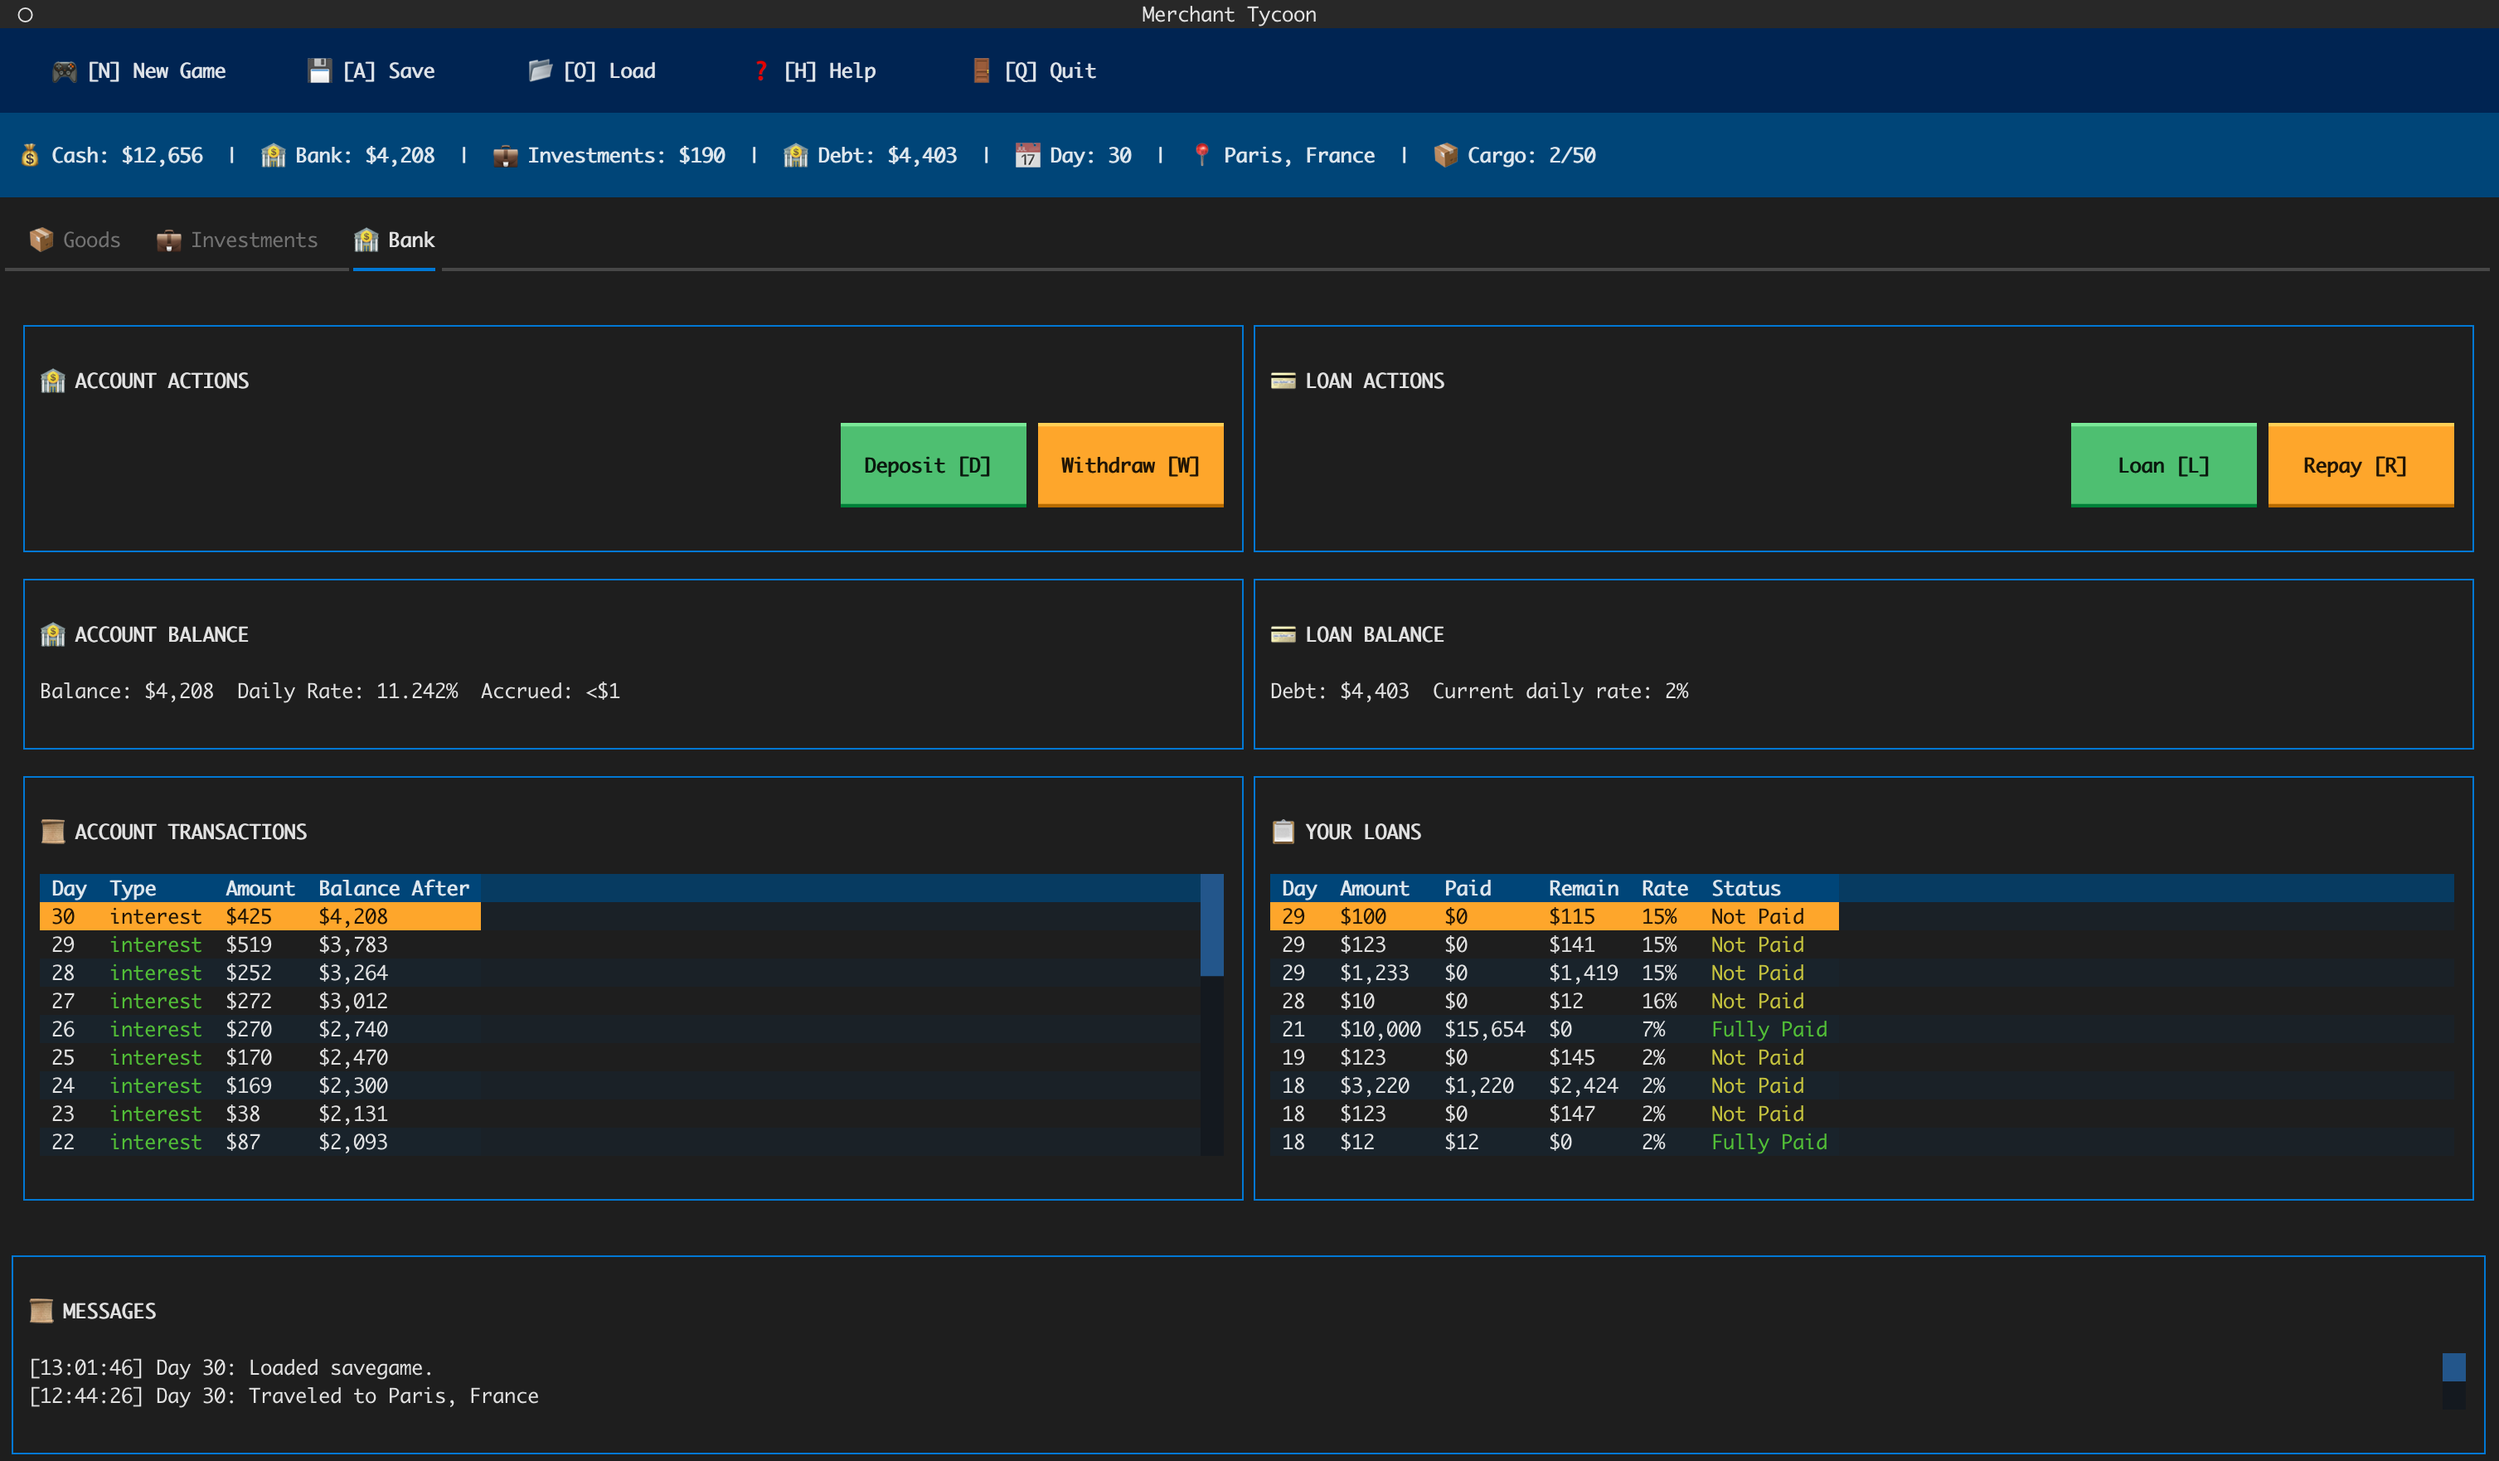
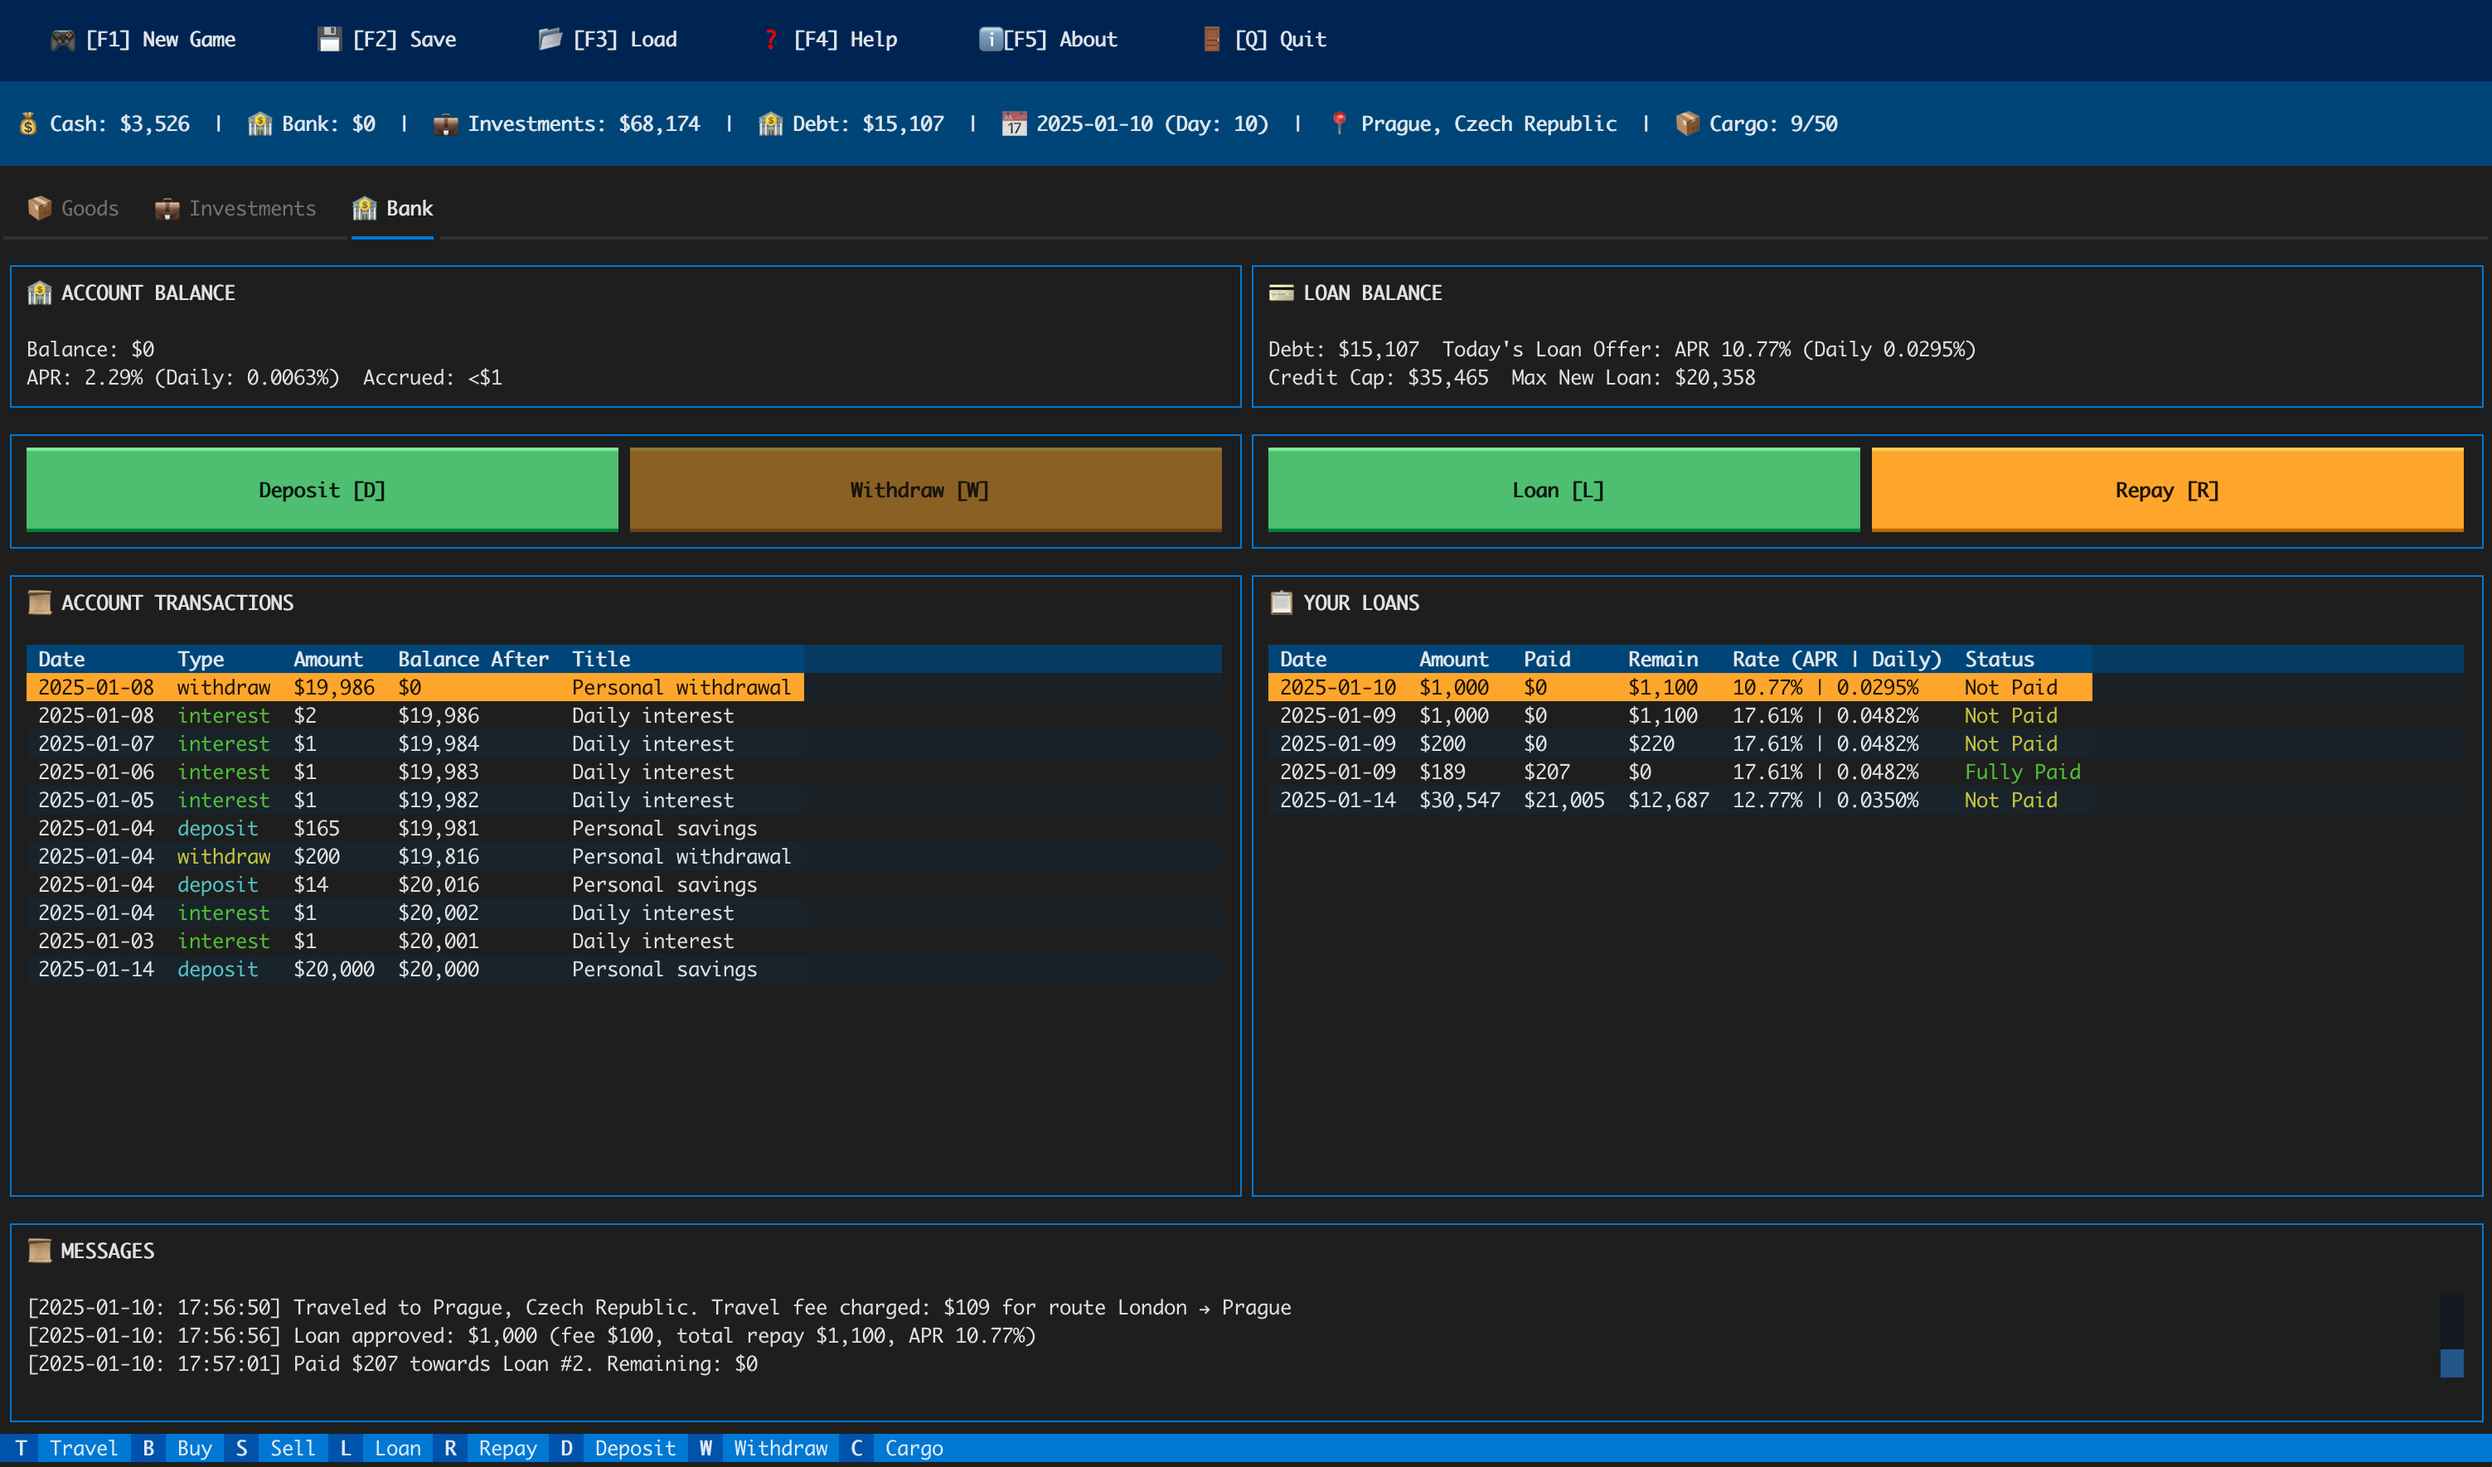
Key bindings updated

Changed region(s): [[0.0, 0.0, 1.0, 0.9989], [0.495, 0.874, 0.5259, 0.9052], [0.4331, 0.874, 0.4641, 0.9052]]

diff --git a/src/merchant_tycoon/app.py b/src/merchant_tycoon/app.py
@@ -70,11 +70,13 @@ class MerchantTycoon(App):
     BINDINGS = [
         # Global actions (hidden from footer, shown in top bar)
         Binding("q", "quit", "Quit", show=False),
-        Binding("h", "help", "Help", show=False),
-        Binding("a", "save", "Save", show=False),
-        Binding("o", "load", "Load", show=False),
-        Binding("n", "new_game", "New Game", show=False),
-        Binding("f2", "about", "About", show=False),
+        Binding("escape", "quit", "Quit", show=False),
+        Binding("f4", "help", "Help", show=False),
+        Binding("f2", "save", "Save", show=False),
+        Binding("f3", "load", "Load", show=False),
+        Binding("f1", "new_game", "New Game", show=False),
+        Binding("f5", "about", "About", show=False),
+        Binding("f9", "splash", "Splash", show=False),
         # Context-sensitive actions (always visible, behavior depends on active tab)
         Binding("t", "travel", "Travel", show=True),
         Binding("b", "buy", "Buy", show=True),
@@ -544,6 +546,17 @@ class MerchantTycoon(App):
     def action_about(self):
         """Show About modal with app info"""
         self.push_screen(AboutModal())
+
+    def action_splash(self):
+        """Show Splash modal on demand (F9)."""
+        try:
+            self.push_screen(SplashModal())
+        except Exception as e:
+            try:
+                self.engine.messenger.error(f"Failed to open splash: {e}", tag="system")
+                self.refresh_all()
+            except Exception:
+                pass
 
     def action_save(self):
         """Save current game to disk (single slot)."""

diff --git a/src/merchant_tycoon/ui/general/panels/global_actions_bar.py b/src/merchant_tycoon/ui/general/panels/global_actions_bar.py
@@ -8,11 +8,11 @@ class GlobalActionsBar(Static):
 
     def compose(self) -> ComposeResult:
         with Horizontal(id="global-actions-bar"):
-            yield Button("🎮 [N] New Game", id="action-new", classes="action-item")
-            yield Button("💾 [A] Save", id="action-save", classes="action-item")
-            yield Button("📂 [O] Load", id="action-load", classes="action-item")
-            yield Button("❓ [H] Help", id="action-help", classes="action-item")
-            yield Button("ℹ [F2] About", id="action-about", classes="action-item")
+            yield Button("🎮 [F1] New Game", id="action-new", classes="action-item")
+            yield Button("💾 [F2] Save", id="action-save", classes="action-item")
+            yield Button("📂 [F3] Load", id="action-load", classes="action-item")
+            yield Button("❓ [F4] Help", id="action-help", classes="action-item")
+            yield Button("ℹ [F5] About", id="action-about", classes="action-item")
             yield Button("🚪 [Q] Quit", id="action-quit", classes="action-item")
 
     def on_button_pressed(self, event: Button.Pressed) -> None:
@@ -34,4 +34,3 @@ class GlobalActionsBar(Static):
                 app.action_quit()
             except Exception:
                 app.exit()
-

diff --git a/src/merchant_tycoon/ui/general/modals/splash_modal.py b/src/merchant_tycoon/ui/general/modals/splash_modal.py
@@ -99,7 +99,7 @@ class SplashModal(ModalScreen):
                 yield Label("(C) Dariusz Przada", id="splash-author")
 
             # Bottom instruction
-            yield Label("Press Enter or Space to continue", id="splash-instruction")
+            yield Label("Press [Enter] or [Space] to continue", id="splash-instruction")
 
     def on_mount(self) -> None:
         # Auto-dismiss after 10 seconds

diff --git a/README.md b/README.md
@@ -8,6 +8,10 @@ A terminal-based trading game where you buy low, sell high, travel between citie
 
 ## 📸 Screenshots
 
+### 🚀 Splash Screen
+![Merchant Tycoon - Splash Screen](docs/images/splash.png)
+*Startup screen with animated ASCII logo and version info*
+
 ### 📦 Goods Trading
 ![Merchant Tycoon - Goods Trading Screen](docs/images/goods.png)
 *Main trading interface with market prices, inventory management, and real-time price trends*
@@ -45,7 +49,7 @@ The game combines:
 5. Save excess cash in the bank to earn interest
 6. Build a diversified portfolio while continuing to trade
 
-## 🚀 How To Play
+## 🚀 How to install and run
 
 ### Installation
 
@@ -128,12 +132,14 @@ The game has **3 tabs** (Goods, Investments, Bank) with context-sensitive contro
 #### Global Controls (Always Available)
 | Key | Action | Description |
 |-----|--------|-------------|
-| **N** | New Game | Start a new game (deletes current save) |
-| **A** | Save | Save current game progress |
-| **O** | Load | Load saved game |
-| **H** | Help | Show in-game instructions |
-| **Q** | Quit | Exit the game |
-| **C** | Cargo | Extend cargo capacity by +1 slot (cost doubles per slot) |
+| **F1** | New Game | Start a new game (deletes current save) |
+| **F2** | Save | Save current game progress |
+| **F3** | Load | Load saved game |
+| **F4** | Help | Show in-game instructions |
+| **F5** | About | Show About modal |
+| **Q / ESC** | Quit | Exit the game |
+| **F9** | Splash | Show splash screen |
+| **C** | Cargo | Extend cargo capacity by +1 slot (pricing per config) |
 
 #### 📦 Goods Tab Controls
 | Key | Action | Description |
@@ -141,7 +147,6 @@ The game has **3 tabs** (Goods, Investments, Bank) with context-sensitive contro
 | **T** | Travel | Move to another city to find better prices |
 | **B** | Buy | Purchase goods at current city prices |
 | **S** | Sell | Sell goods from your inventory |
-| **I** | Transactions | View detailed purchase history with profit/loss |
 | **L** | Loan | Borrow money (up to $10,000 per loan) |
 | **R** | Repay | Pay back your loans |
 
@@ -150,7 +155,6 @@ The game has **3 tabs** (Goods, Investments, Bank) with context-sensitive contro
 |-----|--------|-------------|
 | **B** | Buy | Purchase stocks, commodities, or crypto |
 | **S** | Sell | Sell assets from your portfolio |
-| **I** | Transactions | View detailed investment history with profit/loss |
 
 #### 🏦 Bank Tab Controls
 | Key | Action | Description |
@@ -273,10 +277,8 @@ The game uses a **tabbed interface** with three main tabs:
 ## 🛠 Technical Details
 
 ### Built With
-- **Python 3.8+**
+- **Python 3.14**
 - **Textual Framework**: Modern TUI (Text User Interface) framework
-- **Architecture**: Event-driven with modal screens
-- **Data Structures**: FIFO queues for inventory tracking
 
 ### Features
 - **Tabbed Interface**: 3 main tabs (Goods, Investments, Bank) with context-sensitive controls
@@ -293,9 +295,18 @@ The game uses a **tabbed interface** with three main tabs:
 - **Auto-save/Load**: Persistent game state across sessions
 - **Responsive Terminal UI**: Colorful, styled interface using Textual framework
 
-## 🤖 Created Entirely with Claude Code
+## 🤖 Created Entirely with AI Agents on board
 
-This game was **100% created using Claude Code** - Anthropic's AI-powered coding assistant. Every line of code, every feature, and every design decision was made through conversation with Claude Code.
+This game was **100% (ok ok 99%:>) created using AI Agents**.
+Almost every line of code, every feature, and every design decision was made through conversation with AI
+(Claude Code, Codex and Junie). 
+
+### No Manual Coding
+
+- Almost **Zero lines** written by hand in a traditional code editor
+- All logic, UI, styling, and documentation generated through AI conversation
+- Demonstrates the power of conversational programming
+- Shows how complex applications can be built through natural language
 
 ### Development Process
 
@@ -326,13 +337,6 @@ The entire development was done through natural language conversations. The deve
    - Added proper column formatting and scrolling
    - Improved modal layouts and styling
 
-### No Manual Coding
-
-- **Zero lines** written by hand in a traditional code editor
-- All logic, UI, styling, and documentation generated through AI conversation
-- Demonstrates the power of conversational programming
-- Shows how complex applications can be built through natural language
-
 ### What This Demonstrates
 
 This project showcases:
@@ -349,8 +353,9 @@ MIT License - feel free to use, modify, and distribute.
 
 - Built with [Textual](https://github.com/Textualize/textual) by Textualize
 - Inspired by classic trading games like Dope Wars and Drug Wars
-- **Entirely created using [Claude Code](https://www.anthropic.com/) by Anthropic**
+- PoC **Entirely created using [Claude Code](https://www.anthropic.com/) by Anthropic**
 - Special thanks to JuniePro for stepping in to support development whenever Claude Code's rate limit hits
+- When Junie left the team (She wanted more money that we coudnt afford) Codex from OpenAI stepped in. 
 
 ## 🎮 Start Playing!
 
@@ -363,3 +368,12 @@ Good luck, and may your trades be profitable! 🚀💰
 ---
 
 *"In code we trust, in Claude we build."* - A demonstration of AI-powered software development
+
+## 🛠 Development Tools
+
+- Claude Code: https://www.anthropic.com/
+- Codex: https://beta.openai.com/docs/api-reference/chat/create
+- Junie: https://junie.pro/
+- ASCII logo generator: https://patorjk.com/software/taag/#p=display&f=Big+Money-ne&t=Merchant%0ATycoon%0AT-ai-coon%0A&x=none&v=4&h=4&w=80&we=false
+  - Font: Big Money-ne
+  - Used to create the splash screen ASCII art variants (Merchant Tycoon / T-ai-coon)
